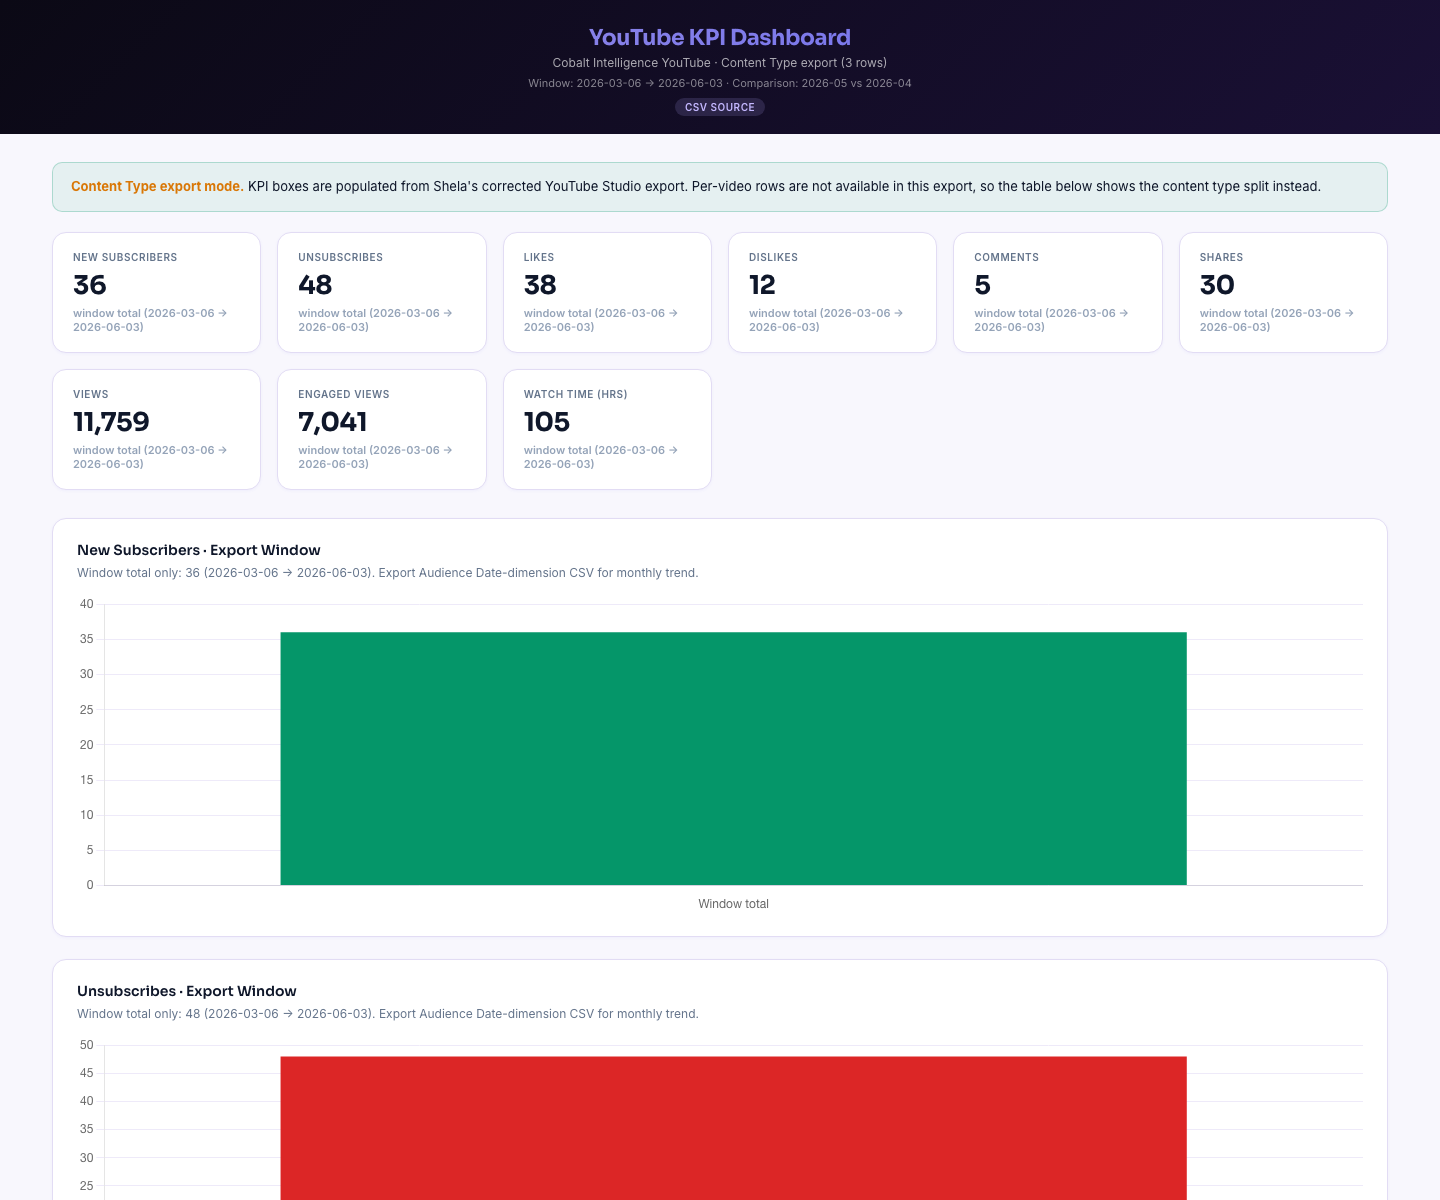
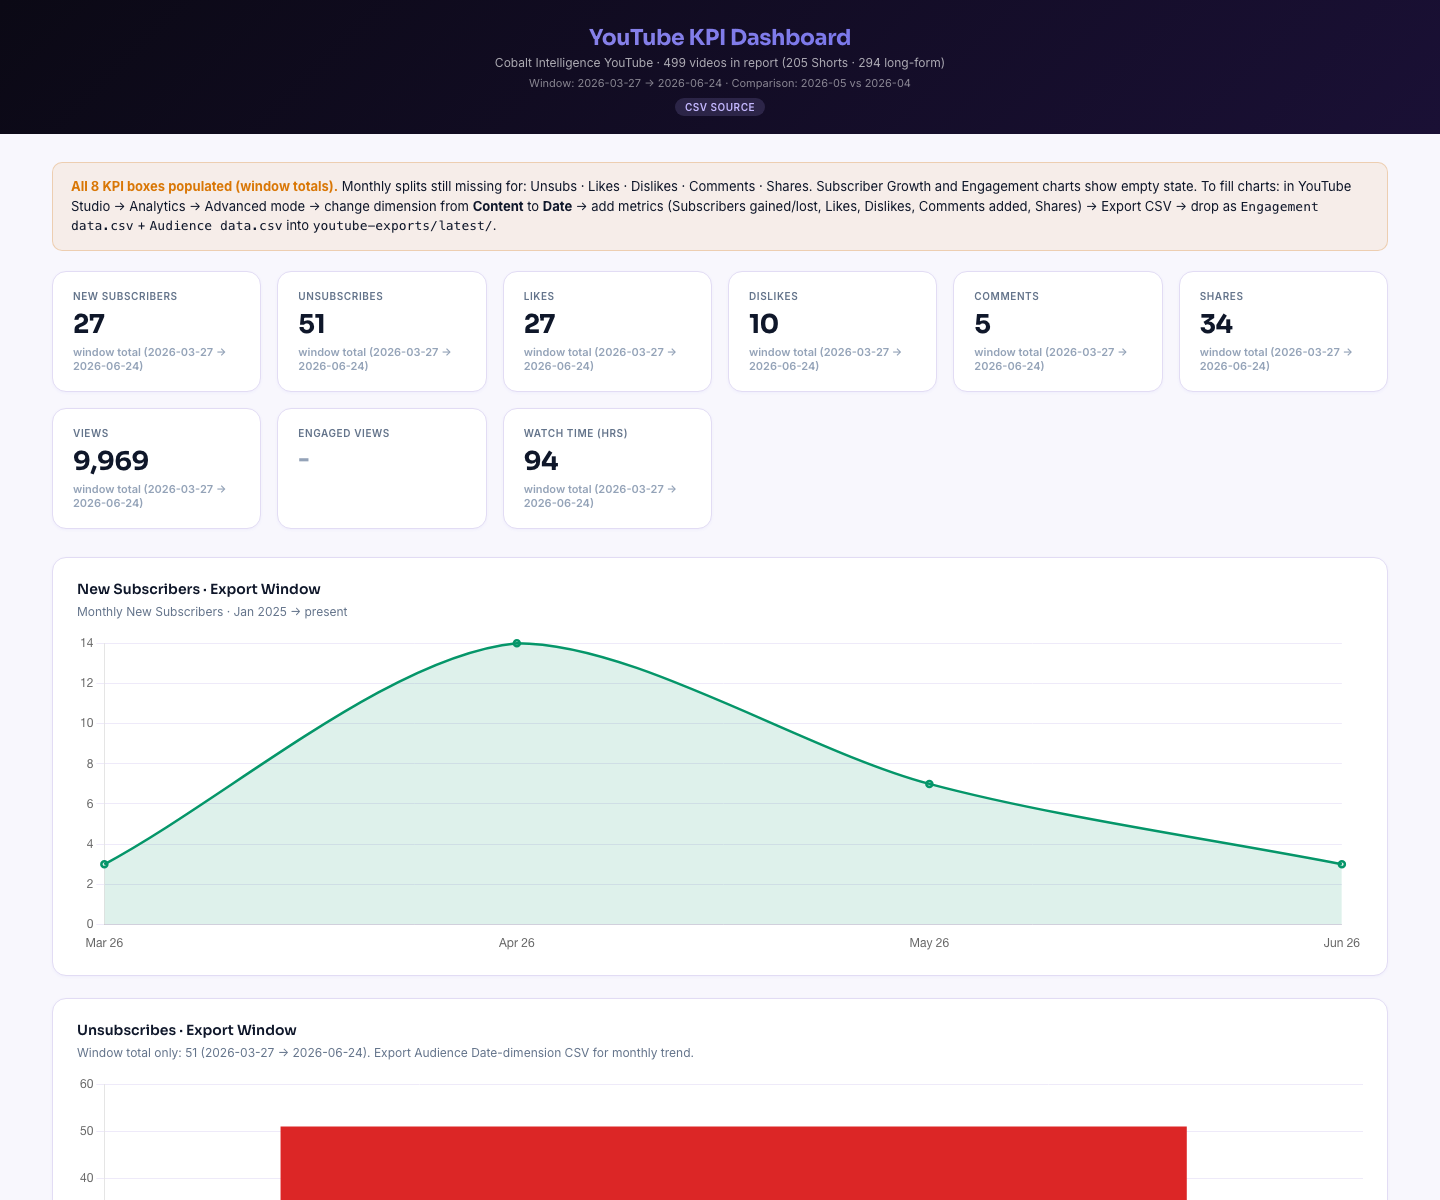
Fix dashboard freshness in weekly status

diff --git a/index.html b/index.html
@@ -76,8 +76,8 @@ footer{margin-top:36px;padding-top:18px;border-top:1px solid var(--border);font-
         <li><strong>Domain Rating</strong> remains 3.27/10 on the OpenPageRank scale, checked June 25. OpenPageRank is a different scale from the old Ahrefs DR.</li>
         <li><strong>AI Visibility</strong> is current from the June 21 AEO run: 38.3% combined mention rate, 59 of 154 prompts cited by at least one engine, 8 wins, and 12 gaps.</li>
         <li><strong>AEO wins</strong> remain strongest around Secretary of State API and Cobalt vs Middesk prompts; the biggest gaps remain registered-business, Texas, New York, and step-by-step SOS API queries.</li>
-        <li><strong>Newsletter</strong> dashboard data is not current for this week. Latest dashboard data is June 9: 369 unique opens, 58.66% open rate, and 375 average unique opens across the last 5 tracked editions.</li>
-        <li><strong>YouTube</strong> still uses the corrected Content Type export through June 3: 11,759 views, 7,041 engaged views, 105.0 watch hours, 36 new subscribers, 48 unsubscribes, and net -12 subscribers.</li>
+        <li><strong>Newsletter</strong> now tracks editions through June 25, with performance data through June 9: 369 unique opens, 58.66% open rate, and 375 average unique opens across the last 5 tracked editions.</li>
+        <li><strong>YouTube</strong> now uses the corrected Studio export through June 24: 9,969 views, 94.1 watch hours, 27 new subscribers, 51 unsubscribes, net -24 subscribers, 27 likes, 5 comments, and 34 shares.</li>
       </ul>
     </div>
   </section>
@@ -114,8 +114,8 @@ footer{margin-top:36px;padding-top:18px;border-top:1px solid var(--border);font-
     <div class="dash-card"><div class="dash-head"><div class="dash-title-row"><h3>SEO KPI Dashboard</h3><a class="dash-link" href="https://laladim.github.io/life-dashboard-site/seo-kpi-dashboard.html" target="_blank" rel="noopener">Open dashboard</a></div><div class="src">Year-to-date traffic, conversions, and OpenPageRank.</div></div><img src="assets/seo-kpi-dashboard.png" alt="SEO KPI dashboard screenshot"></div>
     <div class="dash-card"><div class="dash-head"><div class="dash-title-row"><h3>Traffic Insights</h3><a class="dash-link" href="https://laladim.github.io/life-dashboard-site/traffic-insights.html" target="_blank" rel="noopener">Open dashboard</a></div><div class="src">Weekly traffic breakdown and movement.</div></div><img src="assets/traffic-insights.png" alt="Traffic insights dashboard screenshot"></div>
     <div class="dash-card"><div class="dash-head"><div class="dash-title-row"><h3>AI Visibility Dashboard</h3><a class="dash-link" href="https://laladim.github.io/life-dashboard-site/aeo-dashboard.html" target="_blank" rel="noopener">Open dashboard</a></div><div class="src">AEO prompt visibility and gaps.</div></div><img src="assets/aeo-dashboard.png" alt="AI visibility dashboard screenshot"></div>
-    <div class="dash-card"><div class="dash-head"><div class="dash-title-row"><h3>Newsletter KPI Dashboard</h3><a class="dash-link" href="https://laladim.github.io/life-dashboard-site/newsletter-kpi-dashboard.html" target="_blank" rel="noopener">Open dashboard</a></div><div class="src">Beyond Banks edition performance. Current dashboard data runs through June 9.</div></div><img src="assets/newsletter-kpi-dashboard.png" alt="Newsletter KPI dashboard screenshot"></div>
-    <div class="dash-card"><div class="dash-head"><div class="dash-title-row"><h3>YouTube KPI Dashboard</h3><a class="dash-link" href="https://laladim.github.io/life-dashboard-site/youtube-kpi-dashboard.html" target="_blank" rel="noopener">Open dashboard</a></div><div class="src">Cobalt YouTube video and subscriber motion from the corrected Content Type export.</div></div><img src="assets/youtube-kpi-dashboard.png" alt="YouTube KPI dashboard screenshot"></div>
+    <div class="dash-card"><div class="dash-head"><div class="dash-title-row"><h3>Newsletter KPI Dashboard</h3><a class="dash-link" href="https://laladim.github.io/life-dashboard-site/newsletter-kpi-dashboard.html" target="_blank" rel="noopener">Open dashboard</a></div><div class="src">Beyond Banks editions through June 25. Performance data runs through June 9.</div></div><img src="assets/newsletter-kpi-dashboard.png" alt="Newsletter KPI dashboard screenshot"></div>
+    <div class="dash-card"><div class="dash-head"><div class="dash-title-row"><h3>YouTube KPI Dashboard</h3><a class="dash-link" href="https://laladim.github.io/life-dashboard-site/youtube-kpi-dashboard.html" target="_blank" rel="noopener">Open dashboard</a></div><div class="src">Cobalt YouTube performance from the corrected Studio export through June 24.</div></div><img src="assets/youtube-kpi-dashboard.png" alt="YouTube KPI dashboard screenshot"></div>
   </section>
 
   <footer><span>Generated June 25, 2026 for Jordan meeting prep.</span><span>Root URL always shows the latest weekly report.</span></footer>